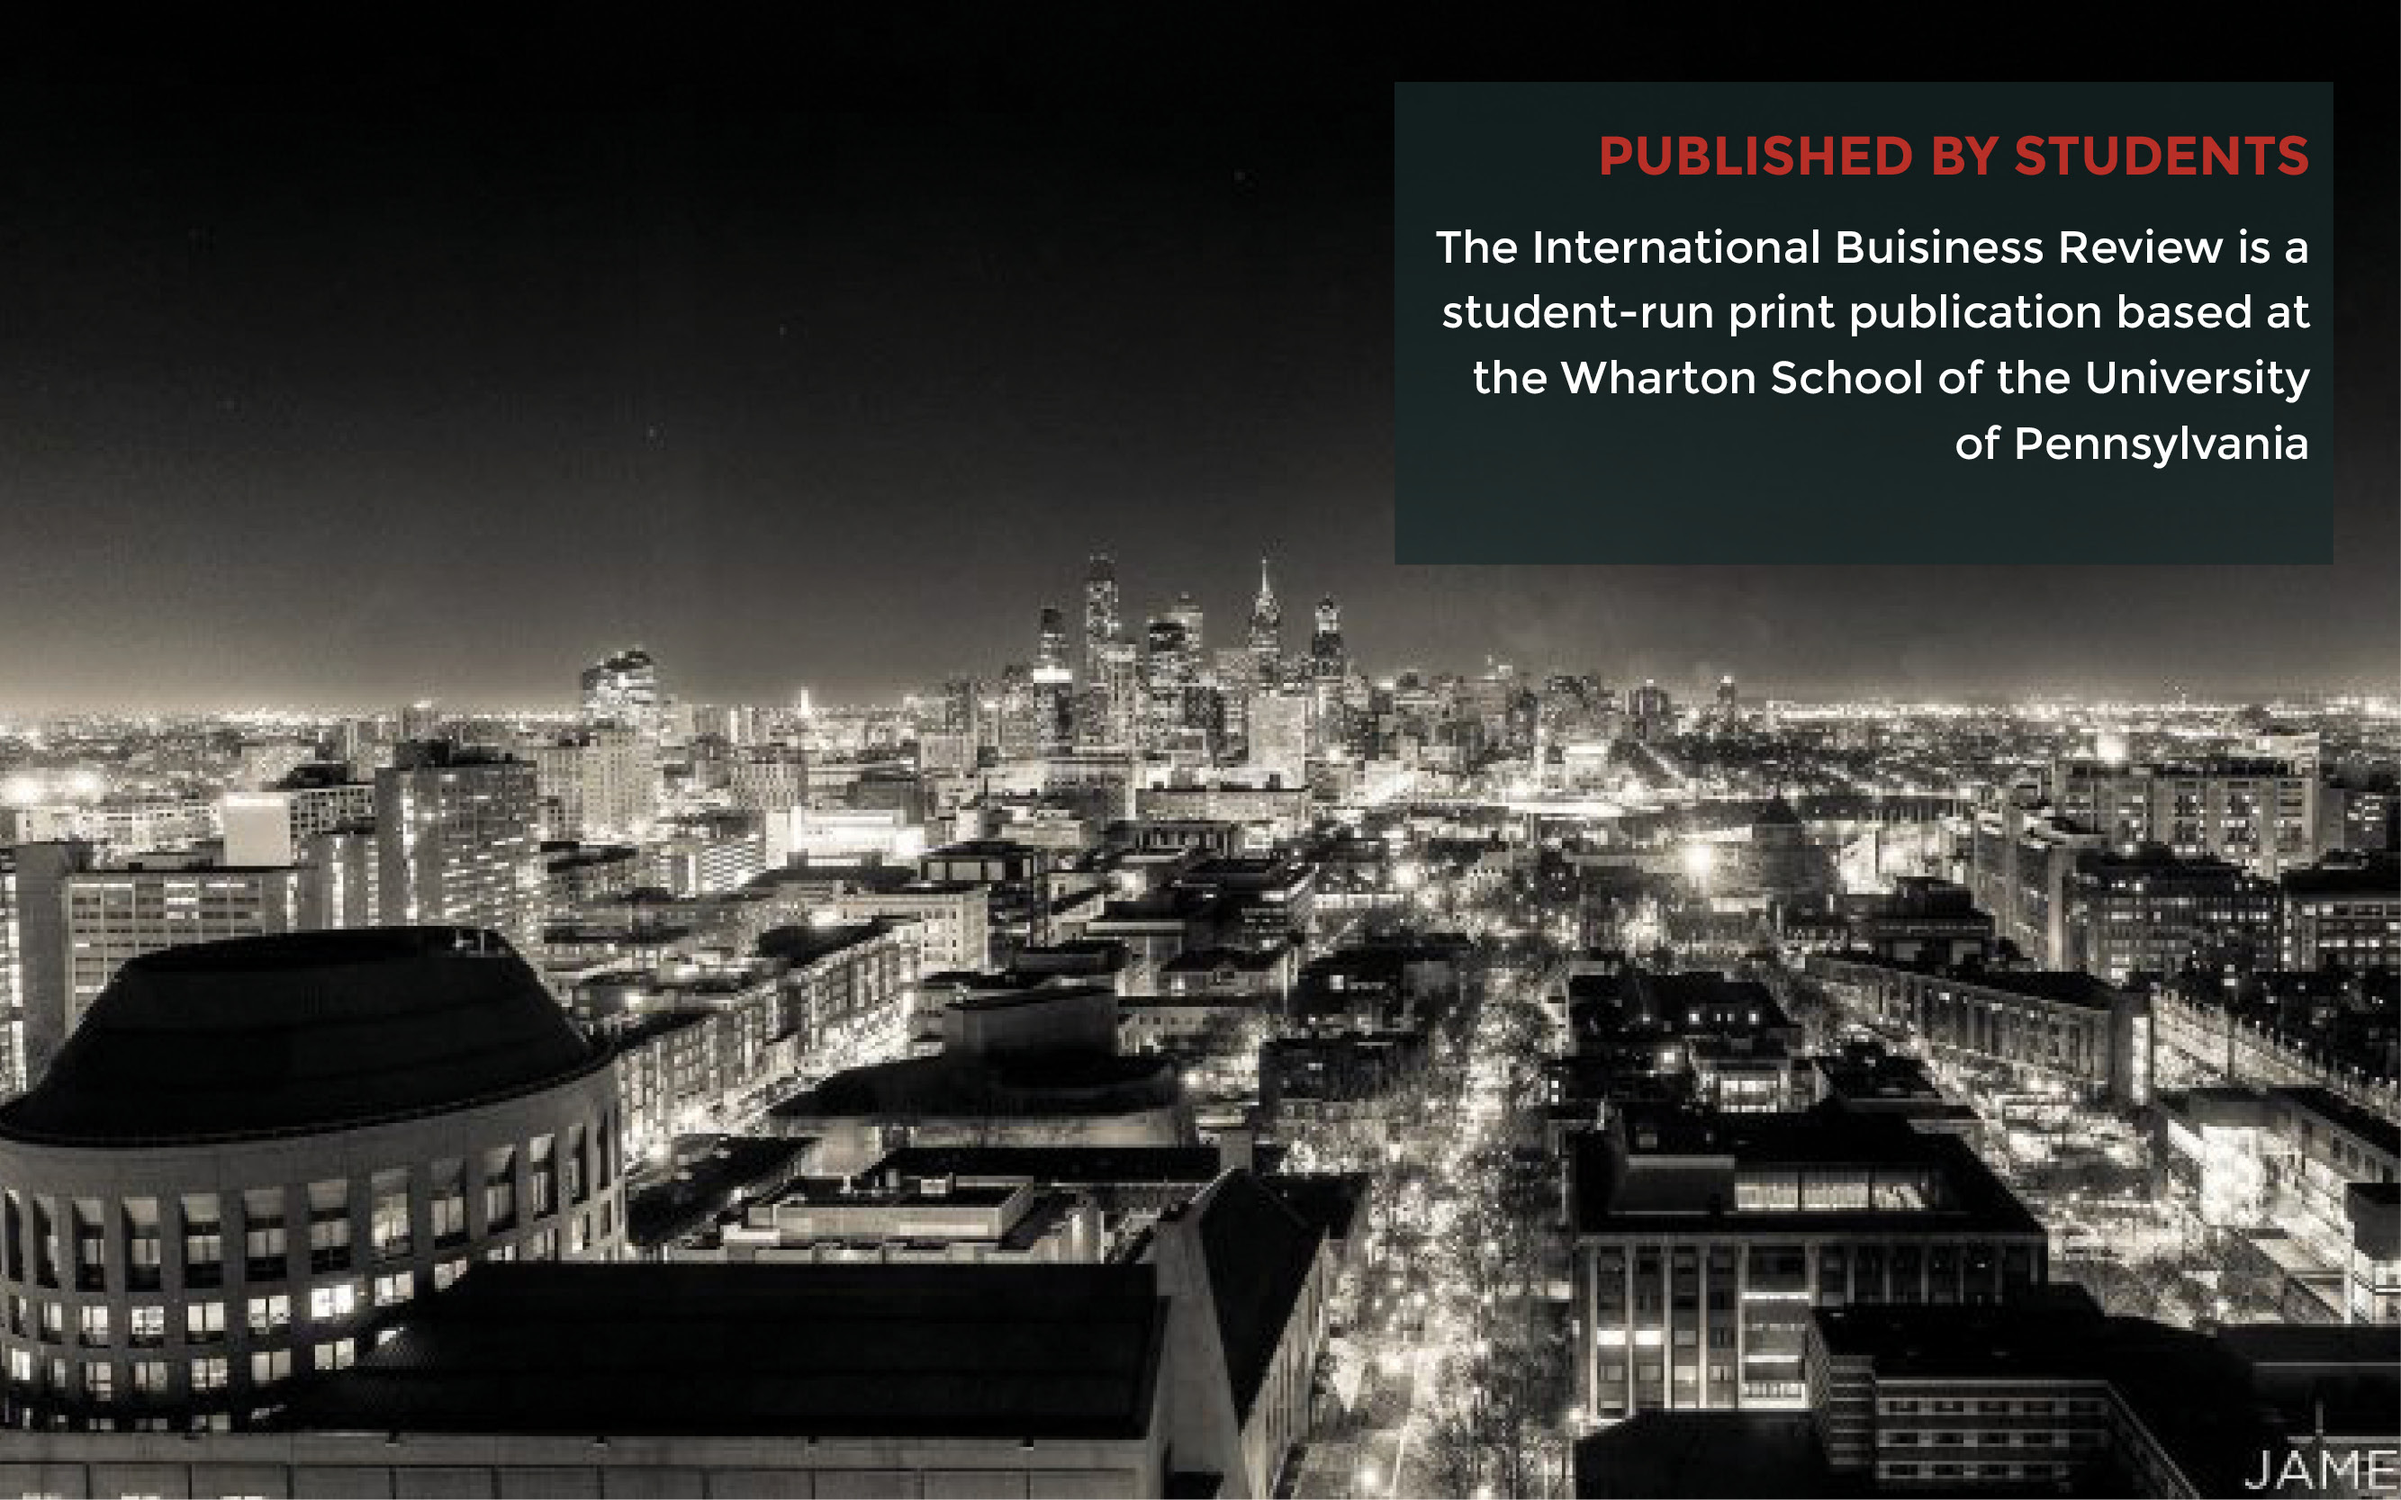
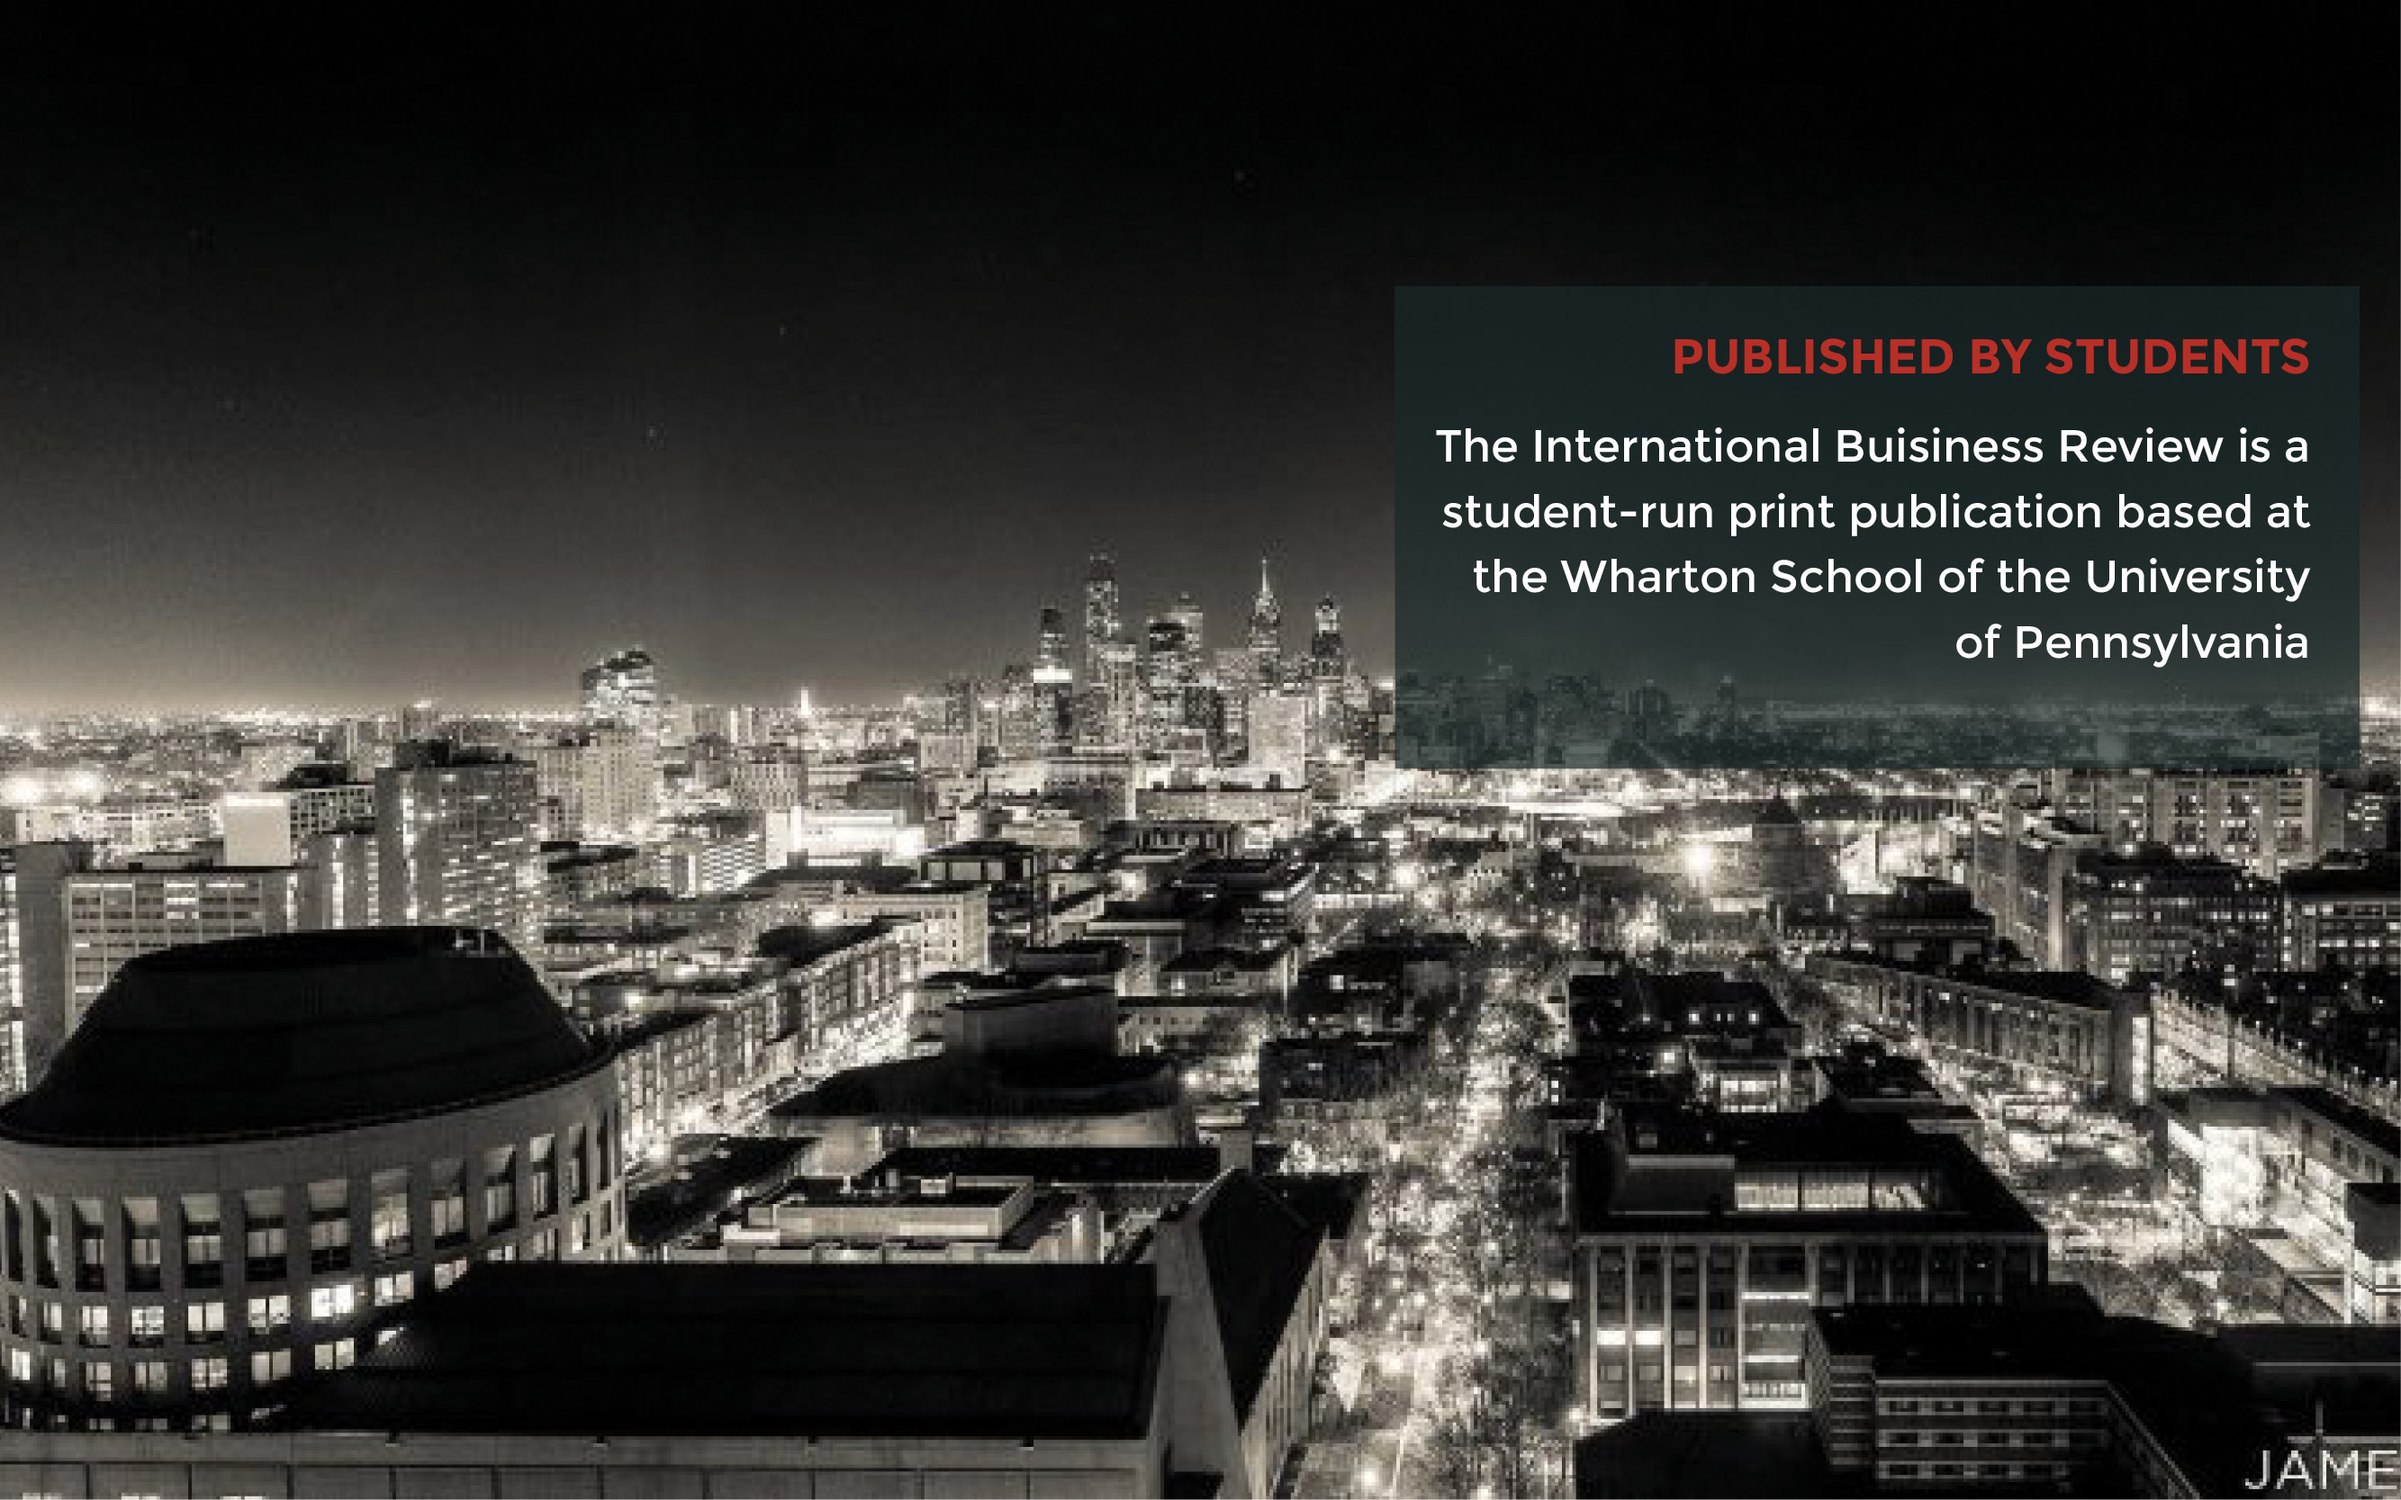
some more random change

Changed region(s): [[0.5602, 0.0312, 0.9959, 0.5303]]

diff --git a/app/assets/stylesheets/layout.css.scss b/app/assets/stylesheets/layout.css.scss
@@ -2,7 +2,7 @@
 
 .menu-left {
   background-color: $dark-grey;
-  padding-left: 15px;
+  padding-left: 100px;
   text-transform: uppercase;
 }
 
@@ -157,7 +157,7 @@ body, .menu-link, .top-bar {
 }
 
 .top-bar{
-  padding-bottom: 60px; 
+  padding-bottom: 45px; 
   margin-bottom: 0px;
   position: fixed;
   bottom: 0px;

diff --git a/app/assets/stylesheets/about.css.scss b/app/assets/stylesheets/about.css.scss
@@ -20,11 +20,11 @@
 
 
 #about-us {
-  padding: 10px;
+  padding: 20px;
   padding-top: 5px;
   padding-bottom: 20px;
   position: relative;
-  left: 40%;
+  left: 60%;
   top: 20%;
   background-color: rgba(24, 40, 40, 0.8);
   z-index: 1;
